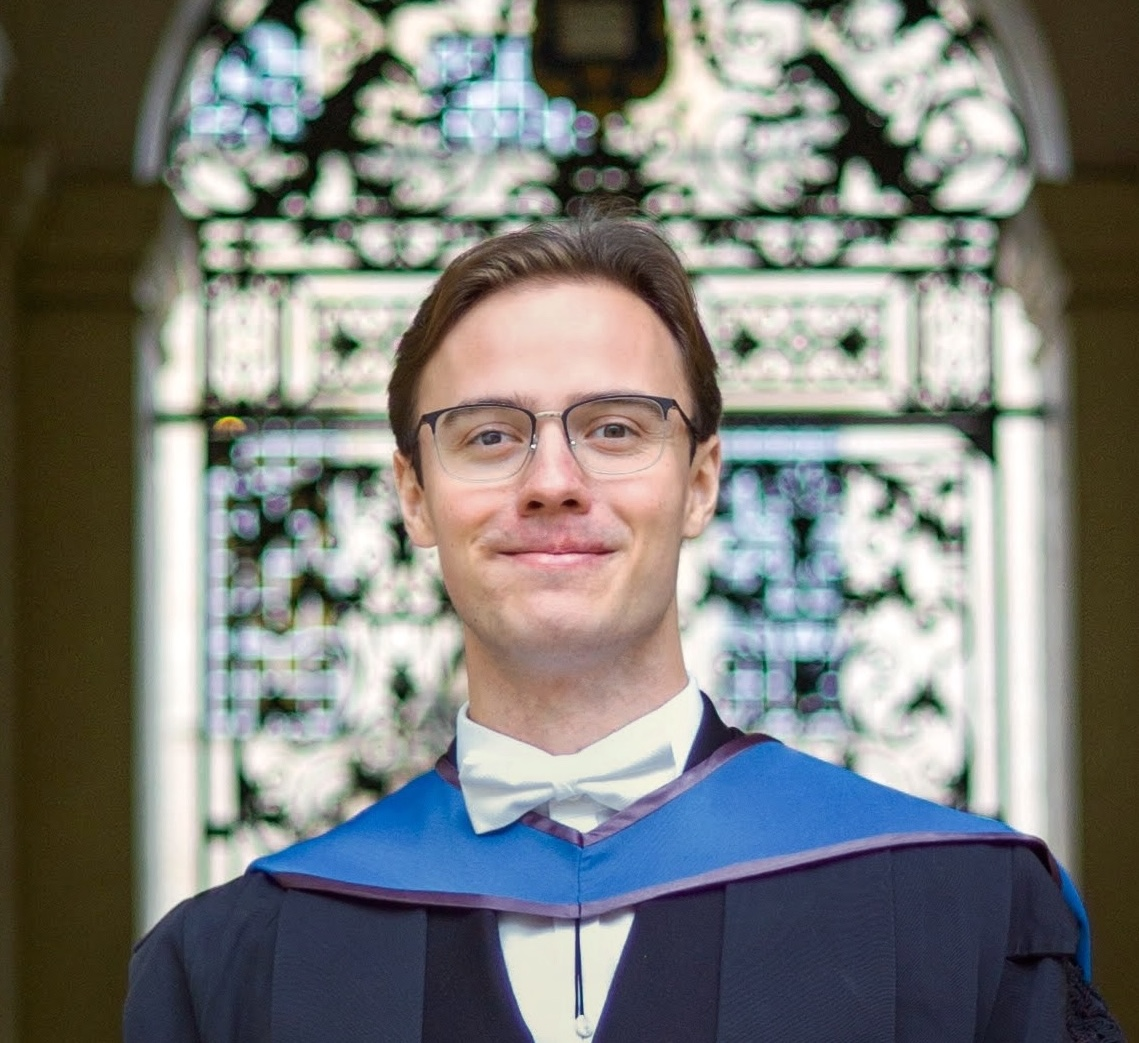
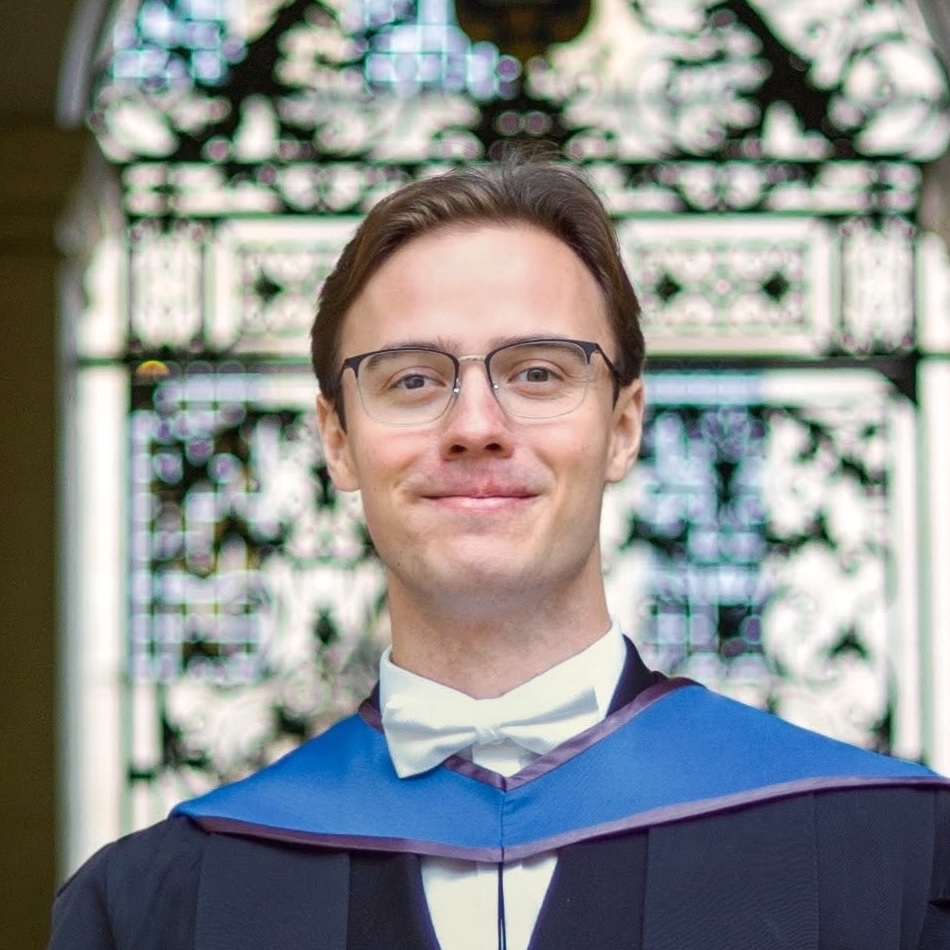
deploy: 3ddc294ba0437a82c32ed9eb4d400e2b0c0a9355

diff --git a/people.html b/people.html
@@ -173,7 +173,7 @@
       <div class="col-lg-3 col-md-6 d-flex align-items-stretch" data-aos="fade-up" data-aos-delay="200">
         <div class="team-member">
           <div class="member-img">
-            <img src="files/images/people/guy.png" class="img-fluid" alt="Portrait of Zhu Sun" loading="lazy">
+            <img src="files/images/people/guy.jpg" class="img-fluid" alt="Portrait of Zhu Sun" loading="lazy">
             <div class="social"></div>
           </div>
           <div class="member-info">
@@ -197,7 +197,7 @@
       <div class="col-lg-3 col-md-6 d-flex align-items-stretch" data-aos="fade-up" data-aos-delay="400">
         <div class="team-member">
           <div class="member-img">
-            <img src="files/images/people/guy.png" class="img-fluid" alt="Portrait of Joshua Dai" loading="lazy">
+            <img src="files/images/people/josh.jpg" class="img-fluid" alt="Portrait of Joshua Dai" loading="lazy">
             <div class="social"><a href="https://scholar.google.com/citations?user=wKJdx4AAAAAJ" target="_blank" rel="noopener noreferrer" aria-label="https://scholar.google.com/citations?user=wKJdx4AAAAAJ" title="https://scholar.google.com/citations?user=wKJdx4AAAAAJ"><i class="fa-brands fa-google-scholar" aria-hidden="true"></i></a><a href="https://orcid.org/0009-0007-8178-2655" target="_blank" rel="noopener noreferrer" aria-label="https://orcid.org/0009-0007-8178-2655" title="https://orcid.org/0009-0007-8178-2655"><i class="fa-brands fa-orcid" aria-hidden="true"></i></a></div>
           </div>
           <div class="member-info">
@@ -257,7 +257,7 @@
       <div class="col-lg-3 col-md-6 d-flex align-items-stretch" data-aos="fade-up" data-aos-delay="100">
         <div class="team-member">
           <div class="member-img">
-            <img src="files/images/people/judd.jpg" class="img-fluid" alt="Portrait of Judd Katz" loading="lazy">
+            <img src="files/images/people/judd.jpeg" class="img-fluid" alt="Portrait of Judd Katz" loading="lazy">
             <div class="social"><a href="https://scholar.google.com/citations?hl=en&amp;user=zFICsvoAAAAJ" target="_blank" rel="noopener noreferrer" aria-label="https://scholar.google.com/citations?hl=en&amp;user=zFICsvoAAAAJ" title="https://scholar.google.com/citations?hl=en&amp;user=zFICsvoAAAAJ"><i class="fa-brands fa-google-scholar" aria-hidden="true"></i></a></div>
           </div>
           <div class="member-info">

diff --git a/publications.html b/publications.html
@@ -658,7 +658,7 @@
         <h2 id="pub-matsoukas-roubeas2026randomised-bibtex-title" class="publication-modal-title">BibTeX — Randomised Measurements of a Disorder-Induced Entanglement Transition in a Neutral Atom Quantum Processor</h2>
         <pre class="publication-modal-text">@misc{matsoukas-roubeas2026randomised,
   title = {Randomised measurements of a disorder-induced entanglement transition in a neutral atom quantum processor},
-  author = {Apollonas S. Matsoukas-Roubeas and Oscar Scholin and Lucas S\'{a} and Arinjoy De and Majd Hamdan and Alexei Bylinskii and Andrew J. Daley and Dorian A. Gangloff},
+  author = {Matsoukas-Roubeas, Apollonas S. and Scholin, Oscar and S\'{a}, Lucas and De, Arinjoy and Hamdan, Majd and Bylinskii, Alexei and Daley, Andrew J. and Gangloff, Dorian A.},
   year = 2026,
   month = apr,
   url = {https://arxiv.org/abs/2604.24854},
